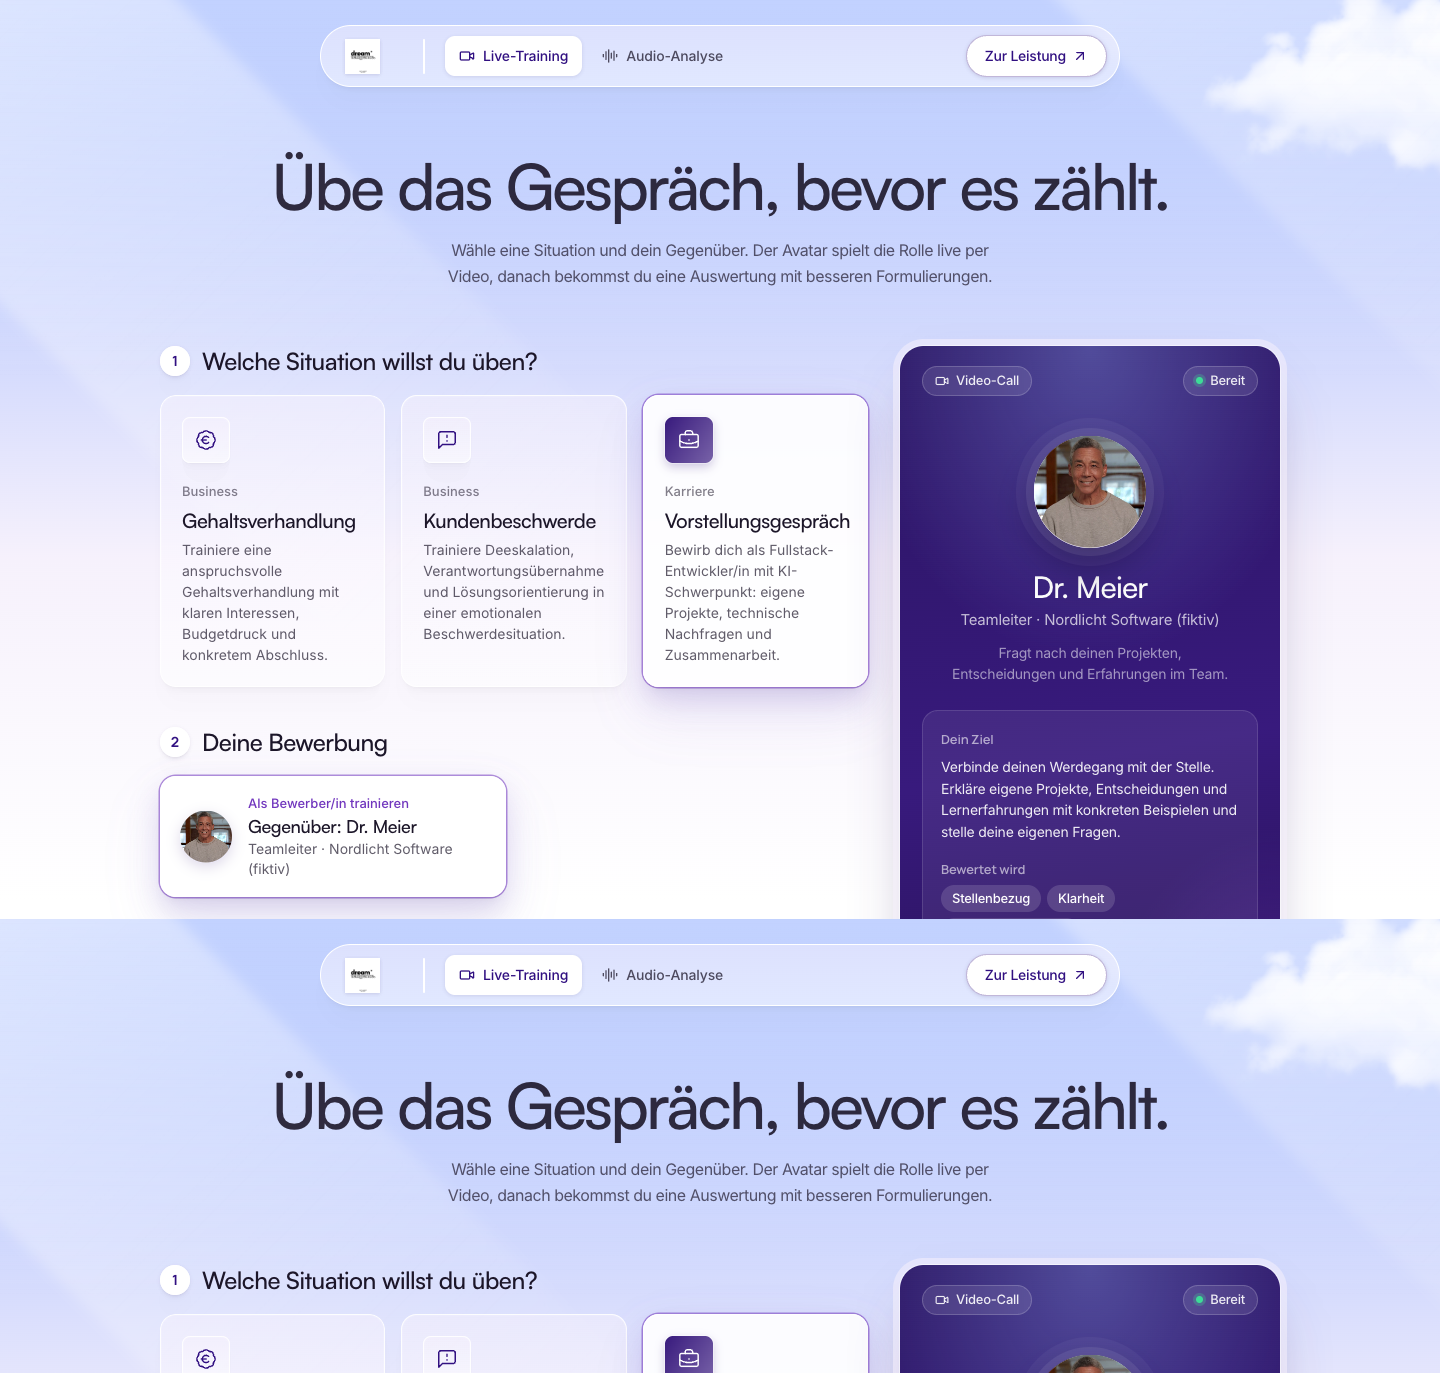
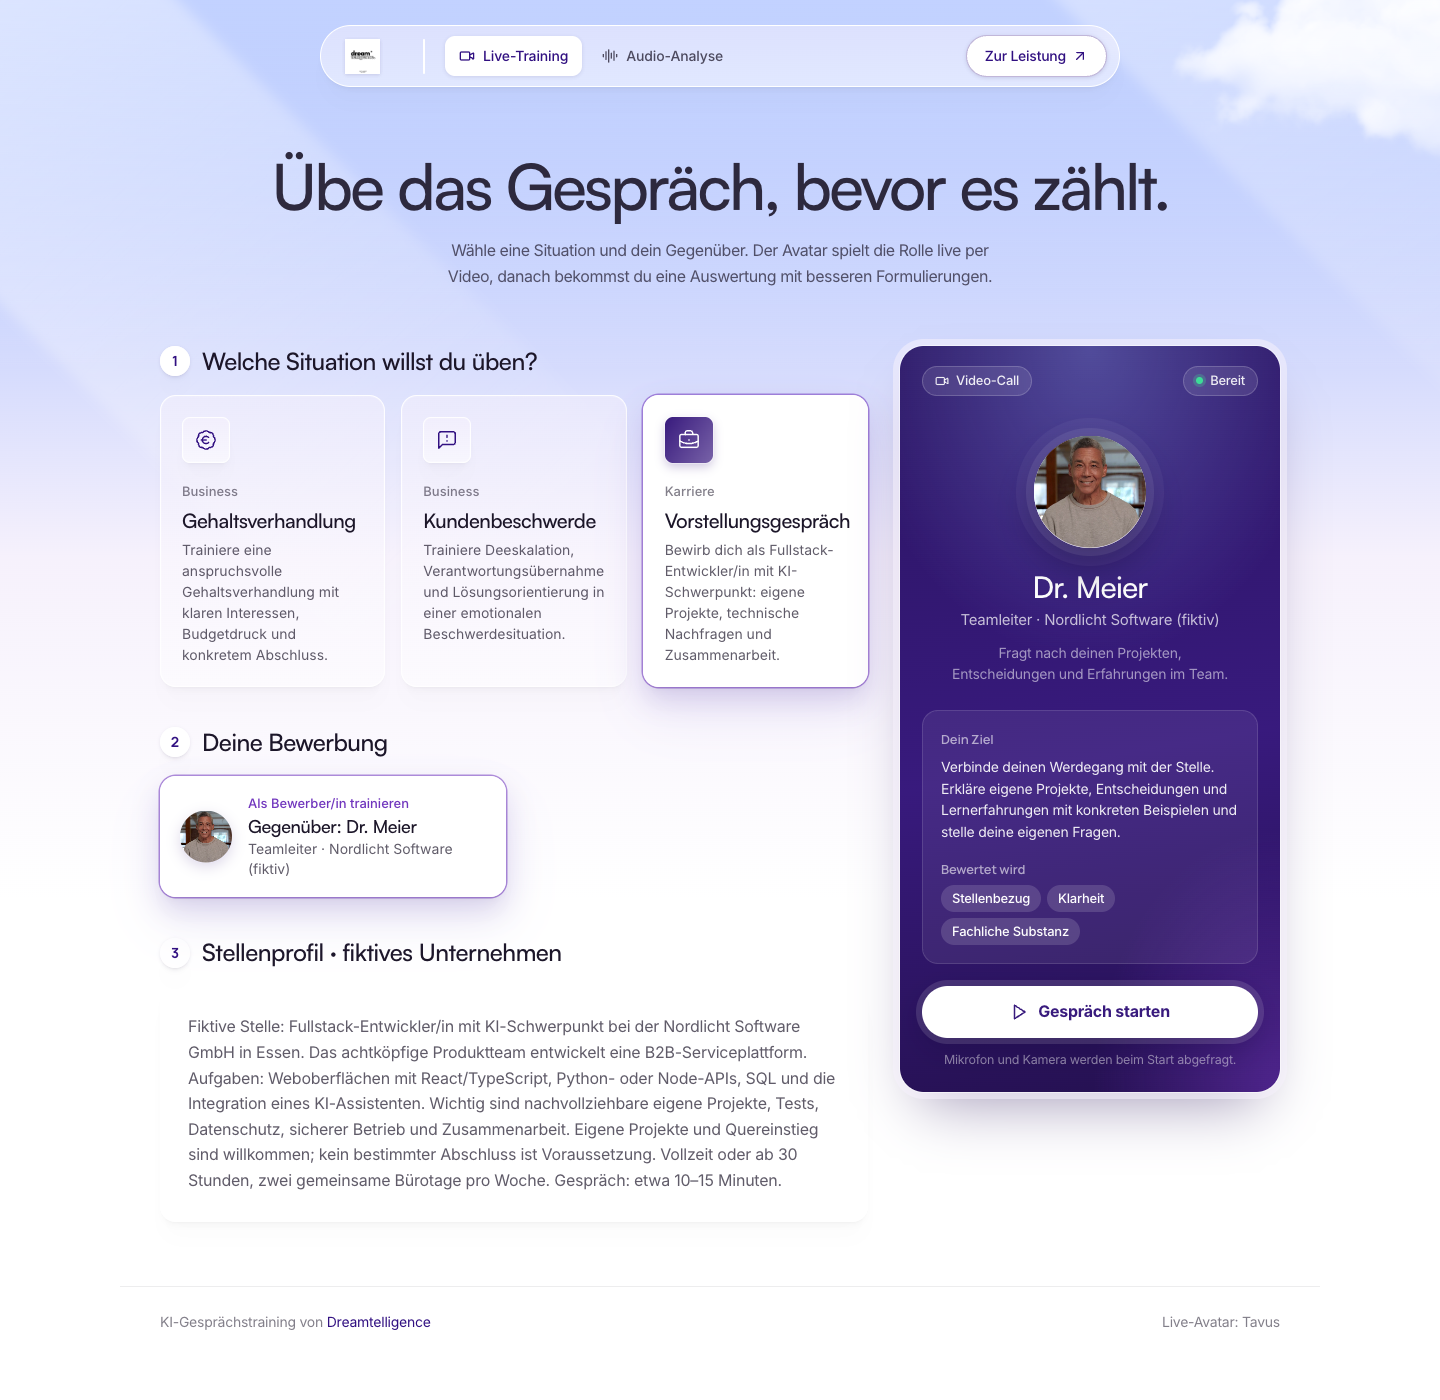
refresh interview preview and explain grading field mapping

diff --git a/docs/interview-design.md b/docs/interview-design.md
@@ -33,7 +33,7 @@ Nachfragen greifen tatsächliche Antworten auf; maximal zwei je Kernfrage. Das i
 | Klarheit | `clarity_score` | Relevante, verständliche Antworten; nachvollziehbarer eigener Beitrag; passende Rückfragen |
 | Fachliche Substanz | `result_score` | Begründete Entscheidungen, Problemlösen, Tests und verantwortlicher Umgang mit KI und Daten |
 
-Die historischen API-Feldnamen bleiben kompatibel. Für jedes Kriterium stehen im Szenario fünf beschriebene Leistungsbereiche von 1–2 bis 9–10. Gute Rhetorik darf keine unsichere technische Lösung aufwerten. Hypothetische Antworten werden von berichteter Erfahrung unterschieden; beides bleibt ungeprüfter Selbstbericht.
+Die historischen API-Feldnamen bleiben kompatibel. Im Interview-Prompt heißen die Felder dagegen `role_relevance`, `communication` und `technical_depth`; erst der Parser ordnet sie den bestehenden API-Feldern zu. Damit wird der Bewerter nicht durch die alten Begriffe Empathie und Verhandlungsergebnis gelenkt. Für jedes Kriterium stehen im Szenario fünf beschriebene Leistungsbereiche von 1–2 bis 9–10. Gute Rhetorik darf keine unsichere technische Lösung aufwerten. Hypothetische Antworten werden von berichteter Erfahrung unterschieden; beides bleibt ungeprüfter Selbstbericht.
 
 Jede vergebene Note verlangt ein wörtliches Nutzerzitat in `evidence`. Der Server prüft dieses gegen die Teilnehmeraussagen und ergänzt den verifizierten Beleg im sichtbaren Feedback. Fehlende, erfundene, dem Avatar gehörende oder als Erkennungsfehler markierte Belege führen zu `null`. Ungültige Noten werden nicht auf einen scheinbar gültigen Wert gekürzt. Die Oberfläche zeigt dann „Nicht beurteilbar“ ohne Punktanzeige oder Messbalken. Fehlende Fragen oder ein abgebrochener Anruf sind keine Nullleistung.
 
